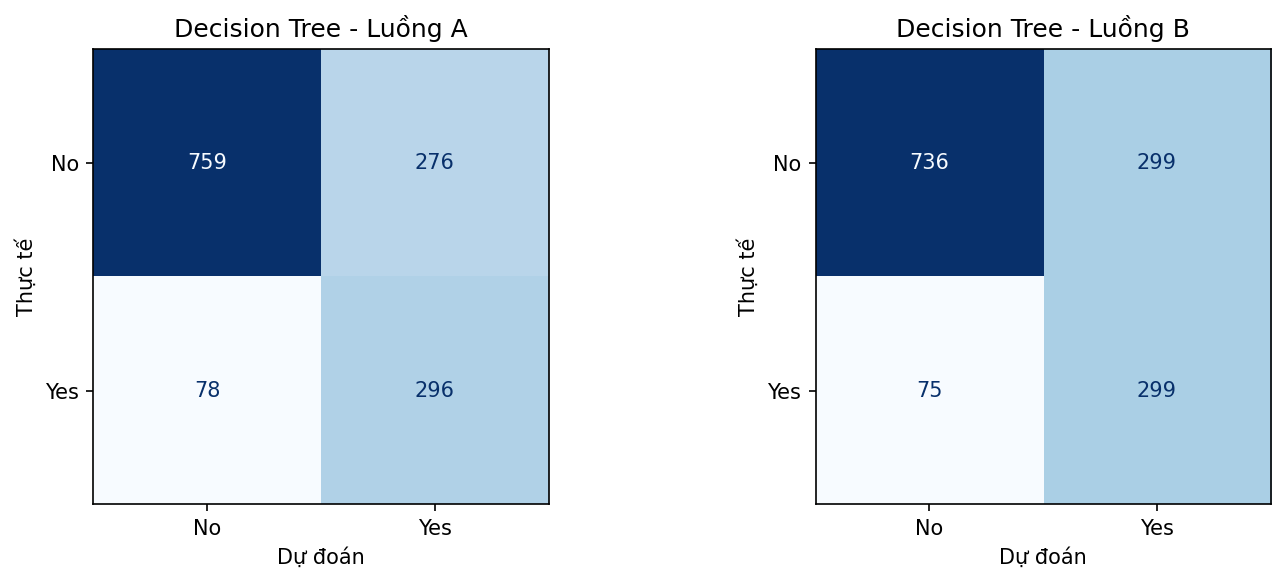
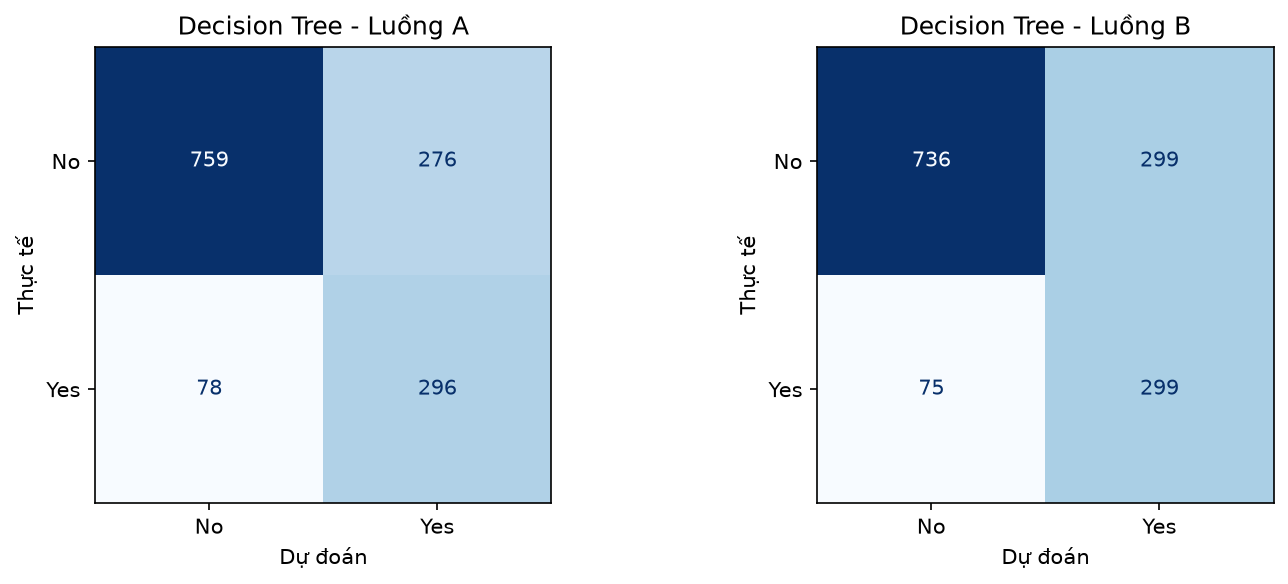
Refine models without version warning, clarify evaluation criteria, and enhance error analysis writeup

diff --git a/app.py b/app.py
@@ -82,10 +82,10 @@ def render_sidebar():
     model_choice = st.sidebar.selectbox(
         "Chọn mô hình thực thi:",
         options=[
-            ("decision_tree_A", "Decision Tree - Luồng A (Đề xuất tốt nhất)"),
-            ("decision_tree_B", "Decision Tree - Luồng B"),
-            ("knn_A", "K-NN - Luồng A (K-NN tối ưu)"),
-            ("knn_B", "K-NN - Luồng B"),
+            ("decision_tree_A", "Decision Tree - Luồng A (Đề xuất tối ưu theo F1-score: 0.6258 & Recall: 0.7914)"),
+            ("decision_tree_B", "Decision Tree - Luồng B (Tối ưu Recall: 0.7995)"),
+            ("knn_A", "K-NN - Luồng A (K-NN tối ưu F1: 0.5992)"),
+            ("knn_B", "K-NN - Luồng B (Tối ưu Accuracy: 0.7906)"),
         ],
         format_func=lambda x: x[1],
     )[0]
